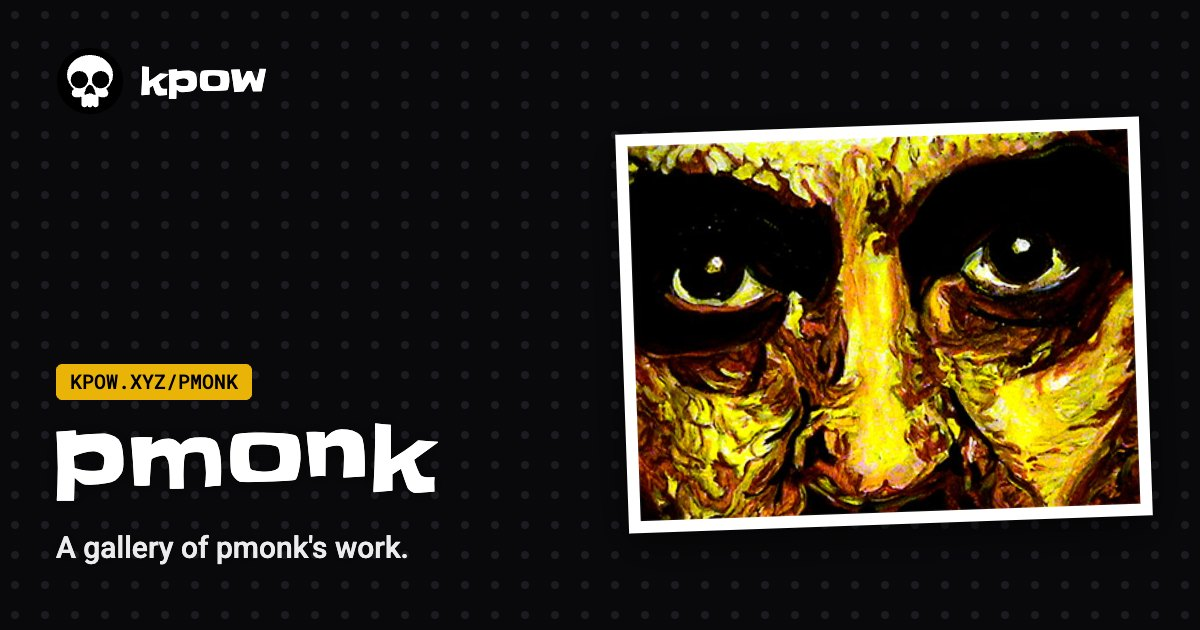
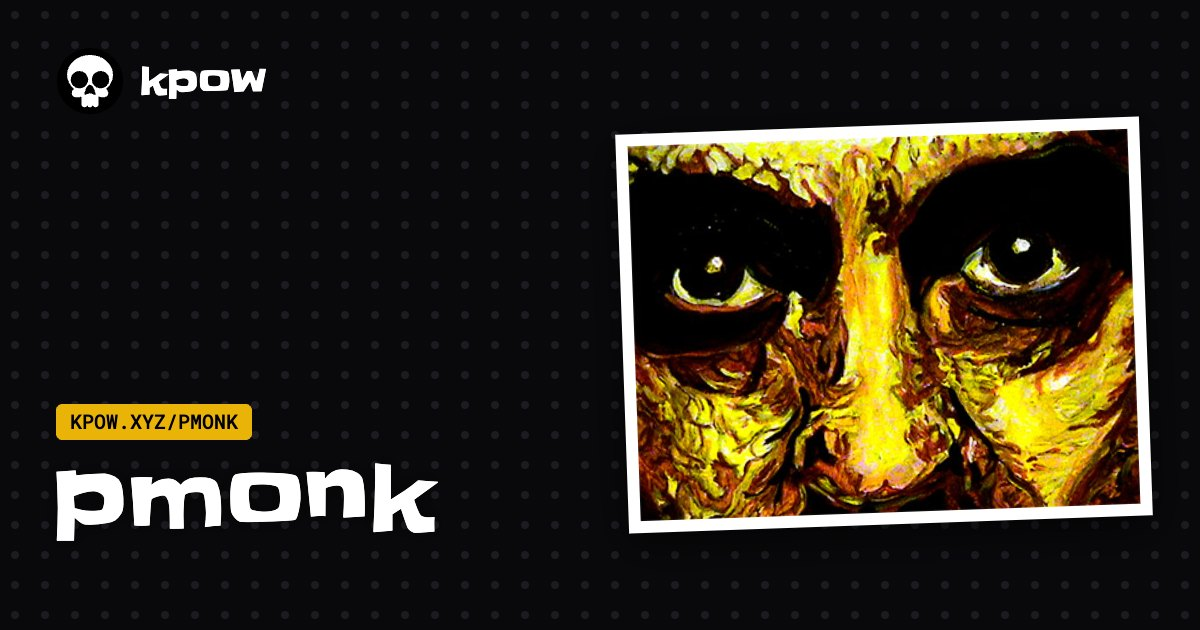
pmonk: just the name and title, no description

Changed region(s): [[0.0308, 0.573, 0.37, 0.9048]]

diff --git a/client/src/lib/page-meta.ts b/client/src/lib/page-meta.ts
@@ -26,6 +26,7 @@ export interface ShareImage {
 export interface PageMeta {
   /** Page title without the site name; `fullTitle()` adds it */
   title: string;
+  /** Empty means no description tags at all */
   description: string;
   image: ShareImage;
   /** og:type */
@@ -53,7 +54,7 @@ export const CARDS = {
   books: card("books", "book feed"),
   starred: card("starred", "star feed: starred articles"),
   videos: card("videos", "youtubez live"),
-  pmonk: card("pmonk", "pmonk: a gallery"),
+  pmonk: card("pmonk", "pmonk"),
   battle: card("battle", "battle: choose your champion"),
   donuts: card("donuts", "donut tour: a map of donut shops"),
 };
@@ -177,7 +178,8 @@ export const STATIC_PAGES: Record<string, PageMeta> = {
     "The latest videos from the YouTube channels I follow: music, tech and more.",
     CARDS.videos,
   ),
-  "/pmonk": page("pmonk", "A gallery of pmonk's work.", CARDS.pmonk),
+  // just the name, on purpose: those who know, know
+  "/pmonk": page("pmonk", "", CARDS.pmonk),
   "/battle": page(
     "battle: choose your champion",
     "Enter the arena and pit heroes and villains against each other, testing their combinations and powers.",
@@ -334,13 +336,13 @@ export function headTags(meta: PageMeta, path: string, origin: string): { tag: "
   const name = (name: string, content: string) => ({ tag: "meta" as const, attrs: { name, content } });
   const prop = (property: string, content: string) => ({ tag: "meta" as const, attrs: { property, content } });
   return [
-    name("description", meta.description),
+    ...(meta.description ? [name("description", meta.description)] : []),
     ...(meta.noindex ? [name("robots", "noindex, nofollow")] : [{ tag: "link" as const, attrs: { rel: "canonical", href: url } }]),
     prop("og:site_name", SITE.name),
     prop("og:locale", SITE.locale),
     prop("og:type", meta.type ?? "website"),
     prop("og:title", title),
-    prop("og:description", meta.description),
+    ...(meta.description ? [prop("og:description", meta.description)] : []),
     prop("og:url", url),
     prop("og:image", imgUrl),
     ...(imgUrl.startsWith("https:") ? [prop("og:image:secure_url", imgUrl)] : []),
@@ -348,7 +350,7 @@ export function headTags(meta: PageMeta, path: string, origin: string): { tag: "
     ...(img.alt ? [prop("og:image:alt", img.alt)] : []),
     name("twitter:card", "summary_large_image"),
     name("twitter:title", title),
-    name("twitter:description", meta.description),
+    ...(meta.description ? [name("twitter:description", meta.description)] : []),
     name("twitter:image", imgUrl),
     ...(img.alt ? [name("twitter:image:alt", img.alt)] : []),
   ];

diff --git a/scripts/og-cards/cards.html b/scripts/og-cards/cards.html
@@ -45,7 +45,7 @@ const CARDS = [
   { name: "itunez", kind: "inset", photo: "tunes.jpg",
     chip: "kpow.xyz/itunez", title: "itunez", sub: "Years of plays: top artists, songs and listening habits.", accent: "#ec4899" },
   { name: "pmonk", kind: "inset", photo: "pmonk.jpg",
-    chip: "kpow.xyz/pmonk", title: "pmonk", sub: "A gallery of pmonk's work.", accent: "#eab308" },
+    chip: "kpow.xyz/pmonk", title: "pmonk", sub: "", accent: "#eab308" },
   { name: "battle", kind: "inset", photo: "battle.jpg",
     chip: "kpow.xyz/battle", title: "battle", sub: "Pick two heroes or villains and let them fight.", accent: "#dc2626" },
   { name: "books", kind: "led", icon: "book",
